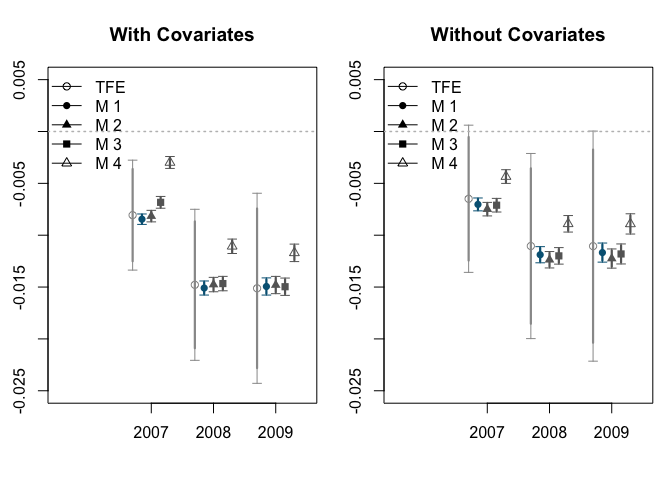
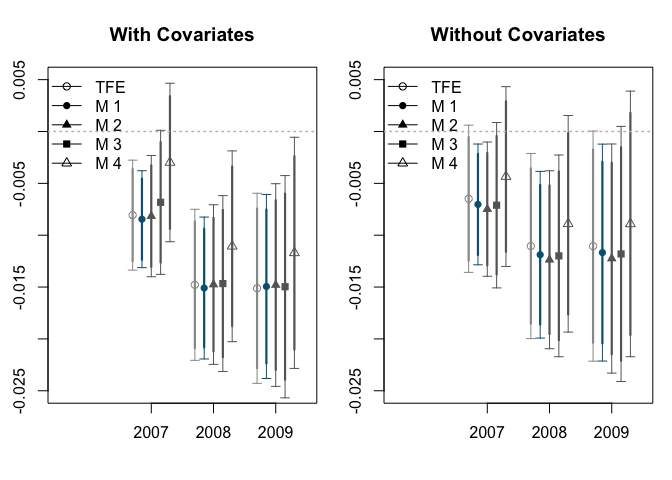
update read me

Changed region(s): [[0.6875, 0.1875, 0.9375, 0.7812], [0.1875, 0.1875, 0.4375, 0.8438]]

diff --git a/README.md b/README.md
@@ -68,14 +68,14 @@ fit_np <- did(lnavgsalary_cpi ~ oncycle, data = anzia2012,
 summary(fit_np)
 ```
 
-    ##                                2007            2008             2009
-    ## 1   D-DiD      ATT           -0.007          -0.012           -0.012
-    ## 2           95% CI [-0.013, -0.002] [-0.02, -0.005] [-0.022, -0.003]
-    ## 3              BIC          -18.018         -18.018          -18.018
-    ## 4             HQIC           -9.147          -9.147           -9.147
-    ## 5         Selected               M1              M1               M1
-    ## 6 Std-DiD      ATT           -0.007          -0.011           -0.011
-    ## 7           95% CI      [-0.012, 0] [-0.02, -0.003] [-0.023, -0.002]
+    ##                                2007             2008             2009
+    ## 1   D-DiD      ATT           -0.007           -0.012           -0.012
+    ## 2           95% CI [-0.013, -0.002] [-0.019, -0.006] [-0.022, -0.002]
+    ## 3              BIC          -18.018          -18.018          -18.018
+    ## 4             HQIC           -9.147           -9.147           -9.147
+    ## 5         Selected               M1               M1               M1
+    ## 6 Std-DiD      ATT           -0.007           -0.011           -0.011
+    ## 7           95% CI [-0.012, -0.001]  [-0.02, -0.005] [-0.018, -0.001]
 
 ``` r
 # plot results 
@@ -108,7 +108,7 @@ summary(fit_p1)
 
     ##                                2007             2008             2009
     ## 1   D-DiD      ATT           -0.008           -0.015           -0.015
-    ## 2           95% CI [-0.009, -0.008] [-0.016, -0.014] [-0.016, -0.014]
+    ## 2           95% CI [-0.013, -0.004] [-0.022, -0.008] [-0.024, -0.006]
     ## 3         Selected               M1               M1               M1
     ## 4 2way-FE      ATT           -0.008           -0.015           -0.015
     ## 5           95% CI [-0.013, -0.003] [-0.022, -0.008] [-0.024, -0.006]
@@ -142,12 +142,12 @@ fit_p2 <- did(lnavgsalary_cpi ~ oncycle, data = anzia2012,
 summary(fit_p2)
 ```
 
-    ##                                2007             2008             2009
-    ## 1   D-DiD      ATT           -0.007           -0.012           -0.012
-    ## 2           95% CI [-0.008, -0.006] [-0.013, -0.011] [-0.013, -0.011]
-    ## 3         Selected               M1               M1               M1
-    ## 4 2way-FE      ATT           -0.006           -0.011           -0.011
-    ## 5           95% CI  [-0.014, 0.001]  [-0.02, -0.002]      [-0.022, 0]
+    ##                                2007            2008             2009
+    ## 1   D-DiD      ATT           -0.007          -0.012           -0.012
+    ## 2           95% CI [-0.013, -0.001] [-0.02, -0.004] [-0.022, -0.001]
+    ## 3         Selected               M1              M1               M1
+    ## 4 2way-FE      ATT           -0.006          -0.011           -0.011
+    ## 5           95% CI  [-0.014, 0.001] [-0.02, -0.002]      [-0.022, 0]
 
 ``` r
 # plot function 
